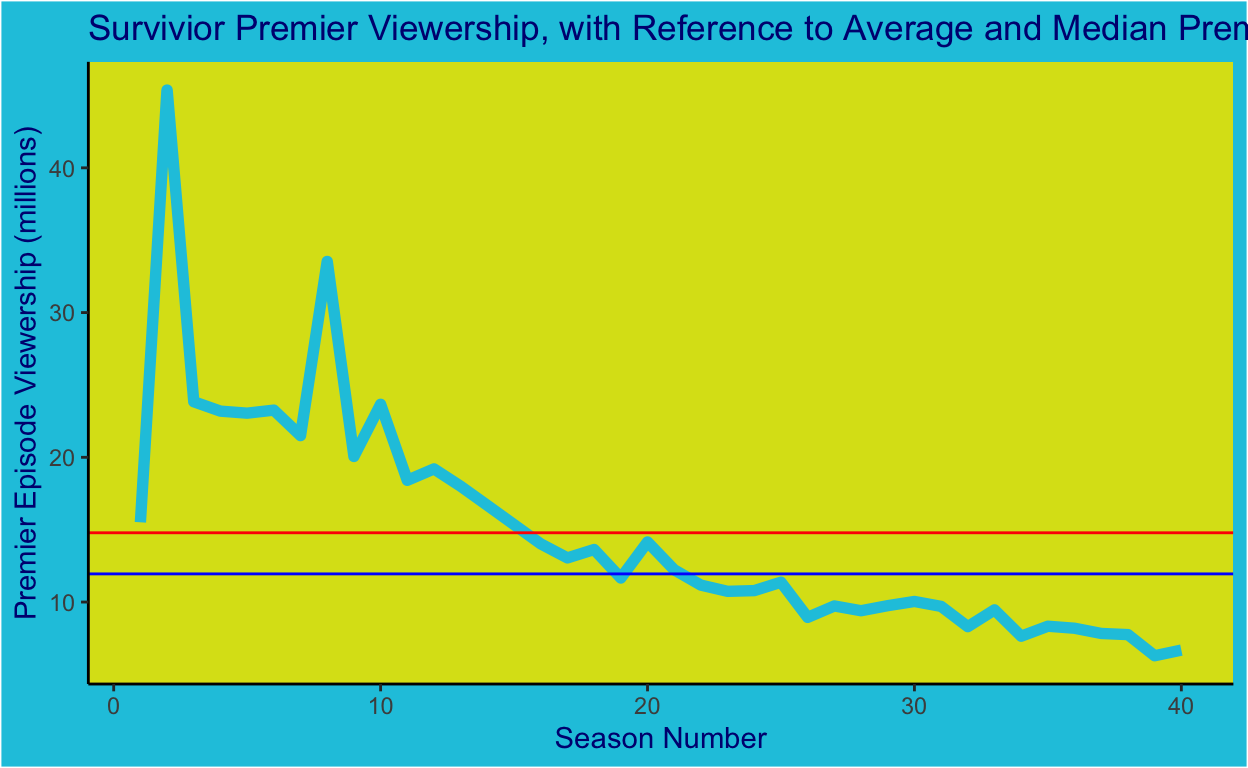
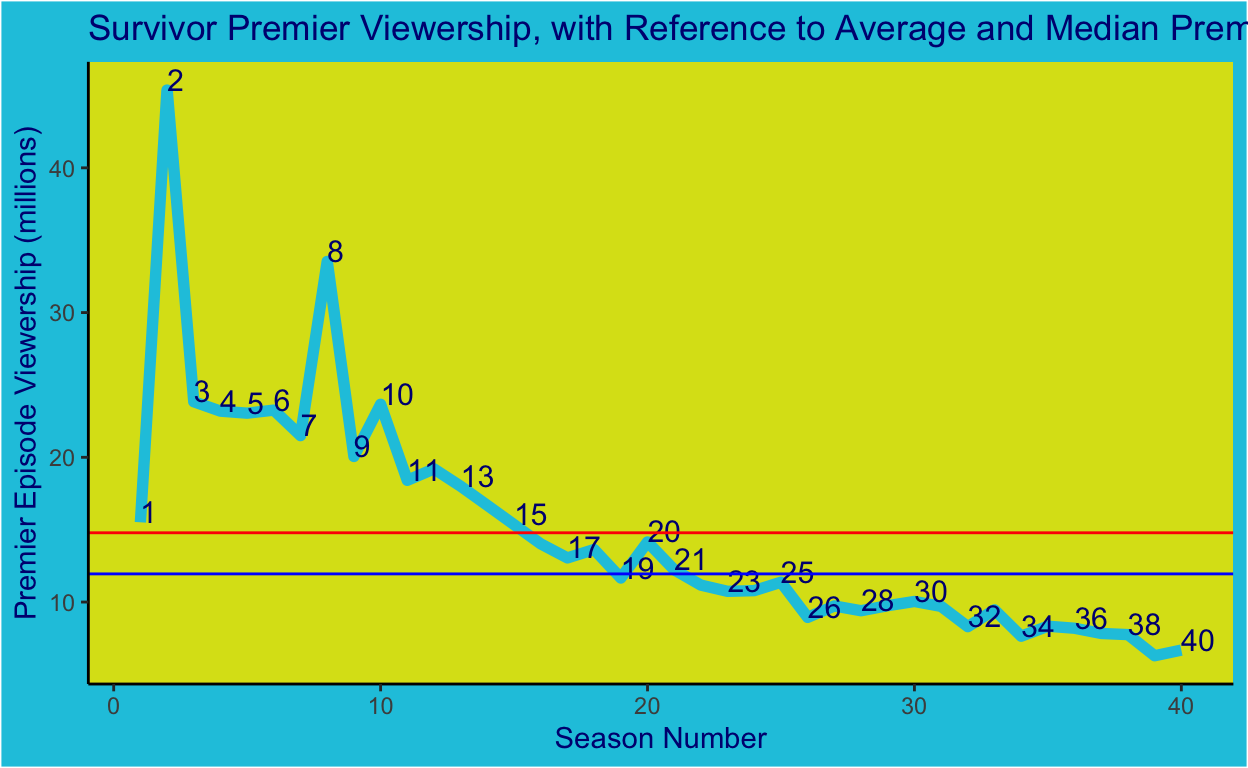
ttwk 5 last changes -- + knit and build

diff --git a/_posts/2021-09-07-ttwork/ttwork.html b/_posts/2021-09-07-ttwork/ttwork.html
@@ -1739,22 +1739,23 @@ code span.wa { color: #5e5e5e; font-style: italic; } /* Warning */
 <div class="sourceCode">
 <pre class="sourceCode r"><code class="sourceCode r">    <span class='fu'><a href='https://ggplot2.tidyverse.org/reference/ggplot.html'>ggplot</a></span><span class='op'>(</span><span class='va'>survivor</span>, <span class='fu'><a href='https://ggplot2.tidyverse.org/reference/aes.html'>aes</a></span><span class='op'>(</span>x <span class='op'>=</span> <span class='va'>season</span>, y <span class='op'>=</span> <span class='va'>viewers_premier</span><span class='op'>)</span><span class='op'>)</span> <span class='op'>+</span>
     <span class='fu'><a href='https://ggplot2.tidyverse.org/reference/geom_path.html'>geom_line</a></span><span class='op'>(</span>size <span class='op'>=</span> <span class='fl'>2</span>, color <span class='op'>=</span> <span class='st'>"#17c6e0"</span><span class='op'>)</span> <span class='op'>+</span>
+    <span class='fu'><a href='https://ggplot2.tidyverse.org/reference/geom_text.html'>geom_text</a></span><span class='op'>(</span><span class='fu'><a href='https://ggplot2.tidyverse.org/reference/aes.html'>aes</a></span><span class='op'>(</span>label<span class='op'>=</span> <span class='va'>season</span><span class='op'>)</span>, color <span class='op'>=</span> <span class='st'>"navy"</span>, hjust<span class='op'>=</span><span class='fl'>0</span>, vjust<span class='op'>=</span><span class='fl'>0</span>, size<span class='op'>=</span><span class='fl'>4</span>, check_overlap <span class='op'>=</span> <span class='cn'>TRUE</span><span class='op'>)</span> <span class='op'>+</span>
     <span class='fu'><a href='https://ggplot2.tidyverse.org/reference/geom_abline.html'>geom_hline</a></span><span class='op'>(</span>yintercept <span class='op'>=</span> <span class='fu'><a href='https://rdrr.io/r/base/mean.html'>mean</a></span><span class='op'>(</span><span class='va'>survivor</span><span class='op'>$</span><span class='va'>viewers_premier</span><span class='op'>)</span>, color <span class='op'>=</span> <span class='st'>"red"</span><span class='op'>)</span> <span class='op'>+</span>
     <span class='fu'><a href='https://ggplot2.tidyverse.org/reference/geom_abline.html'>geom_hline</a></span><span class='op'>(</span>yintercept <span class='op'>=</span> <span class='fu'><a href='https://rdrr.io/r/stats/median.html'>median</a></span><span class='op'>(</span><span class='va'>survivor</span><span class='op'>$</span><span class='va'>viewers_premier</span><span class='op'>)</span>, color <span class='op'>=</span> <span class='st'>"blue"</span><span class='op'>)</span> <span class='op'>+</span>
     <span class='fu'><a href='https://ggplot2.tidyverse.org/reference/labs.html'>labs</a></span><span class='op'>(</span>x <span class='op'>=</span> <span class='st'>"Season Number"</span>, 
          y <span class='op'>=</span> <span class='st'>"Premier Episode Viewership (millions)"</span>, 
-        title <span class='op'>=</span> <span class='st'>"Survivior Premier Viewership, with Reference to Average and Median Premier"</span><span class='op'>)</span> <span class='op'>+</span>
+        title <span class='op'>=</span> <span class='st'>"Survivor Premier Viewership, with Reference to Average and Median Premier"</span><span class='op'>)</span> <span class='op'>+</span>
     <span class='fu'><a href='https://ggplot2.tidyverse.org/reference/ggtheme.html'>theme_classic</a></span><span class='op'>(</span><span class='op'>)</span> <span class='op'>+</span>
     <span class='fu'><a href='https://ggplot2.tidyverse.org/reference/theme.html'>theme</a></span><span class='op'>(</span>
     panel.background <span class='op'>=</span> <span class='fu'><a href='https://ggplot2.tidyverse.org/reference/element.html'>element_rect</a></span><span class='op'>(</span>fill <span class='op'>=</span> <span class='st'>"#Dae017"</span><span class='op'>)</span>, 
     plot.background <span class='op'>=</span> <span class='fu'><a href='https://ggplot2.tidyverse.org/reference/element.html'>element_rect</a></span><span class='op'>(</span>fill <span class='op'>=</span> <span class='st'>"#17c6e0"</span><span class='op'>)</span>, 
-    text <span class='op'>=</span> <span class='fu'><a href='https://ggplot2.tidyverse.org/reference/element.html'>element_text</a></span><span class='op'>(</span>color <span class='op'>=</span> <span class='st'>"navy"</span><span class='op'>)</span><span class='op'>)</span> 
+    text <span class='op'>=</span> <span class='fu'><a href='https://ggplot2.tidyverse.org/reference/element.html'>element_text</a></span><span class='op'>(</span>color <span class='op'>=</span> <span class='st'>"navy"</span>, size <span class='op'>=</span> <span class='fl'>11</span><span class='op'>)</span><span class='op'>)</span> 
 </code></pre>
 </div>
 <p><img src="ttwork_files/figure-html5/unnamed-chunk-23-1.png" width="624" /></p>
 </div>
 <p><strong>How has Survivor enthusiasm changed over the seasons, as it relates to season premier viewership?</strong></p>
-<p>I am a Survivor Super Fan and have been watching with my family every season since I can remember. I wanted to see how the enthusiasm for the show, as expressed in millions of viewers from the premier, has changed over time (with seasons =reflecting change over time). To my surprise, the earlier seasons in which the game was much more simple saw a much higher level of enthusiasm compared with the newer more modern and advanced seasons. Seeing a steady decline in premier viewership is incredibly surprising as I have found the more strategic and modern more recent seasons have been of more interest to me than the older more basic seasons….maybe it is a generational gap difference that can be seen in the changing viewership. It is quite clear overall though that the mean premier viewership around 17-18 million is carried heavily by the large spikes around season 2 and 8 which explains the massive 4 million viewer discrepancy between average premier viewership and median premier viewership.</p>
+<p>I am a Survivor Super Fan and have been watching with my family every season since I can remember. I wanted to see how the enthusiasm for the show, as expressed in millions of viewers from the premier, has changed over time (with seasons reflecting change over time). To my surprise, the earlier seasons in which the game was much more simple saw a much higher level of enthusiasm compared with the newer more modern and advanced seasons. Seeing a steady decline in premier viewership is incredibly surprising as I have found the more strategic and modern recent seasons have been of more interest to me than the older more basic seasons….maybe it is a generational gap difference that can be seen in the changing viewership. It is quite clear overall though that the mean premier viewership (RED LINE) around 17-18 million is carried heavily by the large spikes at season 2 and 8 which explains the massive 4 million-ish viewer discrepancy between average premier viewership and median premier viewership (BLUE LINE).</p>
 <div class="sourceCode" id="cb6"><pre class="sourceCode r distill-force-highlighting-css"><code class="sourceCode r"></code></pre></div>
 <!--radix_placeholder_article_footer-->
 <!--/radix_placeholder_article_footer-->

diff --git a/_site/posts/2021-09-07-ttwork/index.html b/_site/posts/2021-09-07-ttwork/index.html
@@ -2678,22 +2678,23 @@ d-appendix d-footnote-list a.footnote-backlink {
 <div class="sourceCode">
 <pre class="sourceCode r"><code class="sourceCode r">    <span class='fu'><a href='https://ggplot2.tidyverse.org/reference/ggplot.html'>ggplot</a></span><span class='op'>(</span><span class='va'>survivor</span>, <span class='fu'><a href='https://ggplot2.tidyverse.org/reference/aes.html'>aes</a></span><span class='op'>(</span>x <span class='op'>=</span> <span class='va'>season</span>, y <span class='op'>=</span> <span class='va'>viewers_premier</span><span class='op'>)</span><span class='op'>)</span> <span class='op'>+</span>
     <span class='fu'><a href='https://ggplot2.tidyverse.org/reference/geom_path.html'>geom_line</a></span><span class='op'>(</span>size <span class='op'>=</span> <span class='fl'>2</span>, color <span class='op'>=</span> <span class='st'>"#17c6e0"</span><span class='op'>)</span> <span class='op'>+</span>
+    <span class='fu'><a href='https://ggplot2.tidyverse.org/reference/geom_text.html'>geom_text</a></span><span class='op'>(</span><span class='fu'><a href='https://ggplot2.tidyverse.org/reference/aes.html'>aes</a></span><span class='op'>(</span>label<span class='op'>=</span> <span class='va'>season</span><span class='op'>)</span>, color <span class='op'>=</span> <span class='st'>"navy"</span>, hjust<span class='op'>=</span><span class='fl'>0</span>, vjust<span class='op'>=</span><span class='fl'>0</span>, size<span class='op'>=</span><span class='fl'>4</span>, check_overlap <span class='op'>=</span> <span class='cn'>TRUE</span><span class='op'>)</span> <span class='op'>+</span>
     <span class='fu'><a href='https://ggplot2.tidyverse.org/reference/geom_abline.html'>geom_hline</a></span><span class='op'>(</span>yintercept <span class='op'>=</span> <span class='fu'><a href='https://rdrr.io/r/base/mean.html'>mean</a></span><span class='op'>(</span><span class='va'>survivor</span><span class='op'>$</span><span class='va'>viewers_premier</span><span class='op'>)</span>, color <span class='op'>=</span> <span class='st'>"red"</span><span class='op'>)</span> <span class='op'>+</span>
     <span class='fu'><a href='https://ggplot2.tidyverse.org/reference/geom_abline.html'>geom_hline</a></span><span class='op'>(</span>yintercept <span class='op'>=</span> <span class='fu'><a href='https://rdrr.io/r/stats/median.html'>median</a></span><span class='op'>(</span><span class='va'>survivor</span><span class='op'>$</span><span class='va'>viewers_premier</span><span class='op'>)</span>, color <span class='op'>=</span> <span class='st'>"blue"</span><span class='op'>)</span> <span class='op'>+</span>
     <span class='fu'><a href='https://ggplot2.tidyverse.org/reference/labs.html'>labs</a></span><span class='op'>(</span>x <span class='op'>=</span> <span class='st'>"Season Number"</span>, 
          y <span class='op'>=</span> <span class='st'>"Premier Episode Viewership (millions)"</span>, 
-        title <span class='op'>=</span> <span class='st'>"Survivior Premier Viewership, with Reference to Average and Median Premier"</span><span class='op'>)</span> <span class='op'>+</span>
+        title <span class='op'>=</span> <span class='st'>"Survivor Premier Viewership, with Reference to Average and Median Premier"</span><span class='op'>)</span> <span class='op'>+</span>
     <span class='fu'><a href='https://ggplot2.tidyverse.org/reference/ggtheme.html'>theme_classic</a></span><span class='op'>(</span><span class='op'>)</span> <span class='op'>+</span>
     <span class='fu'><a href='https://ggplot2.tidyverse.org/reference/theme.html'>theme</a></span><span class='op'>(</span>
     panel.background <span class='op'>=</span> <span class='fu'><a href='https://ggplot2.tidyverse.org/reference/element.html'>element_rect</a></span><span class='op'>(</span>fill <span class='op'>=</span> <span class='st'>"#Dae017"</span><span class='op'>)</span>, 
     plot.background <span class='op'>=</span> <span class='fu'><a href='https://ggplot2.tidyverse.org/reference/element.html'>element_rect</a></span><span class='op'>(</span>fill <span class='op'>=</span> <span class='st'>"#17c6e0"</span><span class='op'>)</span>, 
-    text <span class='op'>=</span> <span class='fu'><a href='https://ggplot2.tidyverse.org/reference/element.html'>element_text</a></span><span class='op'>(</span>color <span class='op'>=</span> <span class='st'>"navy"</span><span class='op'>)</span><span class='op'>)</span> 
+    text <span class='op'>=</span> <span class='fu'><a href='https://ggplot2.tidyverse.org/reference/element.html'>element_text</a></span><span class='op'>(</span>color <span class='op'>=</span> <span class='st'>"navy"</span>, size <span class='op'>=</span> <span class='fl'>11</span><span class='op'>)</span><span class='op'>)</span> 
 </code></pre>
 </div>
 <p><img src="ttwork_files/figure-html5/unnamed-chunk-23-1.png" width="624" /></p>
 </div>
 <p><strong>How has Survivor enthusiasm changed over the seasons, as it relates to season premier viewership?</strong></p>
-<p>I am a Survivor Super Fan and have been watching with my family every season since I can remember. I wanted to see how the enthusiasm for the show, as expressed in millions of viewers from the premier, has changed over time (with seasons =reflecting change over time). To my surprise, the earlier seasons in which the game was much more simple saw a much higher level of enthusiasm compared with the newer more modern and advanced seasons. Seeing a steady decline in premier viewership is incredibly surprising as I have found the more strategic and modern more recent seasons have been of more interest to me than the older more basic seasons….maybe it is a generational gap difference that can be seen in the changing viewership. It is quite clear overall though that the mean premier viewership around 17-18 million is carried heavily by the large spikes around season 2 and 8 which explains the massive 4 million viewer discrepancy between average premier viewership and median premier viewership.</p>
+<p>I am a Survivor Super Fan and have been watching with my family every season since I can remember. I wanted to see how the enthusiasm for the show, as expressed in millions of viewers from the premier, has changed over time (with seasons reflecting change over time). To my surprise, the earlier seasons in which the game was much more simple saw a much higher level of enthusiasm compared with the newer more modern and advanced seasons. Seeing a steady decline in premier viewership is incredibly surprising as I have found the more strategic and modern recent seasons have been of more interest to me than the older more basic seasons….maybe it is a generational gap difference that can be seen in the changing viewership. It is quite clear overall though that the mean premier viewership (RED LINE) around 17-18 million is carried heavily by the large spikes at season 2 and 8 which explains the massive 4 million-ish viewer discrepancy between average premier viewership and median premier viewership (BLUE LINE).</p>
 <div class="sourceCode" id="cb6"><pre class="sourceCode r distill-force-highlighting-css"><code class="sourceCode r"></code></pre></div>
 <!--radix_placeholder_article_footer-->
 <!--/radix_placeholder_article_footer-->
